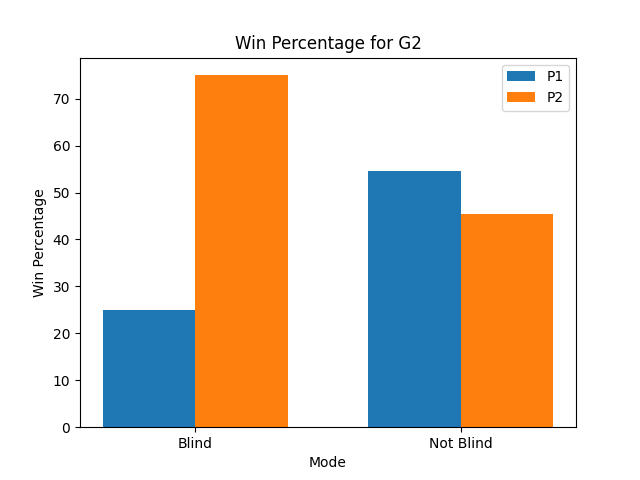
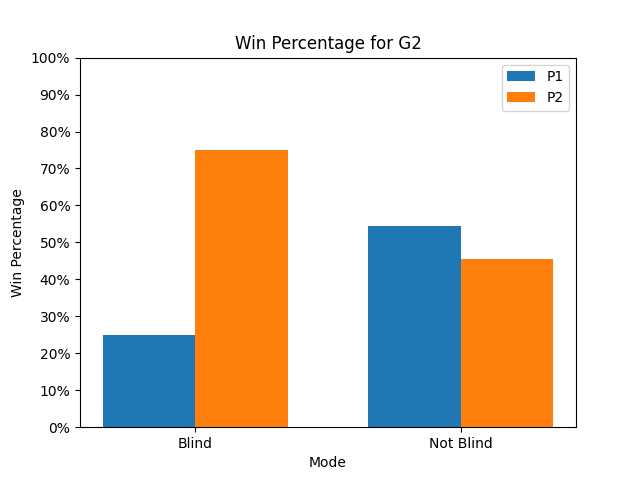
added %

diff --git a/Research/Quantitative/Hypothesis_testing/main.py b/Research/Quantitative/Hypothesis_testing/main.py
@@ -84,6 +84,9 @@ for id in list_unique_ids:
     rects2 = ax.bar(x + width/2, p2_values, width, label='P2')
     ax.set_xlabel('Mode')
     ax.set_ylabel('Win Percentage')
+    #set to 100 to show the percentage
+    ax.set_yticks(np.arange(0, 101, 10))
+    ax.set_yticklabels([f'{int(x)}%' for x in np.arange(0, 101, 10)])
     ax.set_title(f'Win Percentage for {id}')
     ax.set_xticks(x)
     ax.set_xticklabels(labels)
